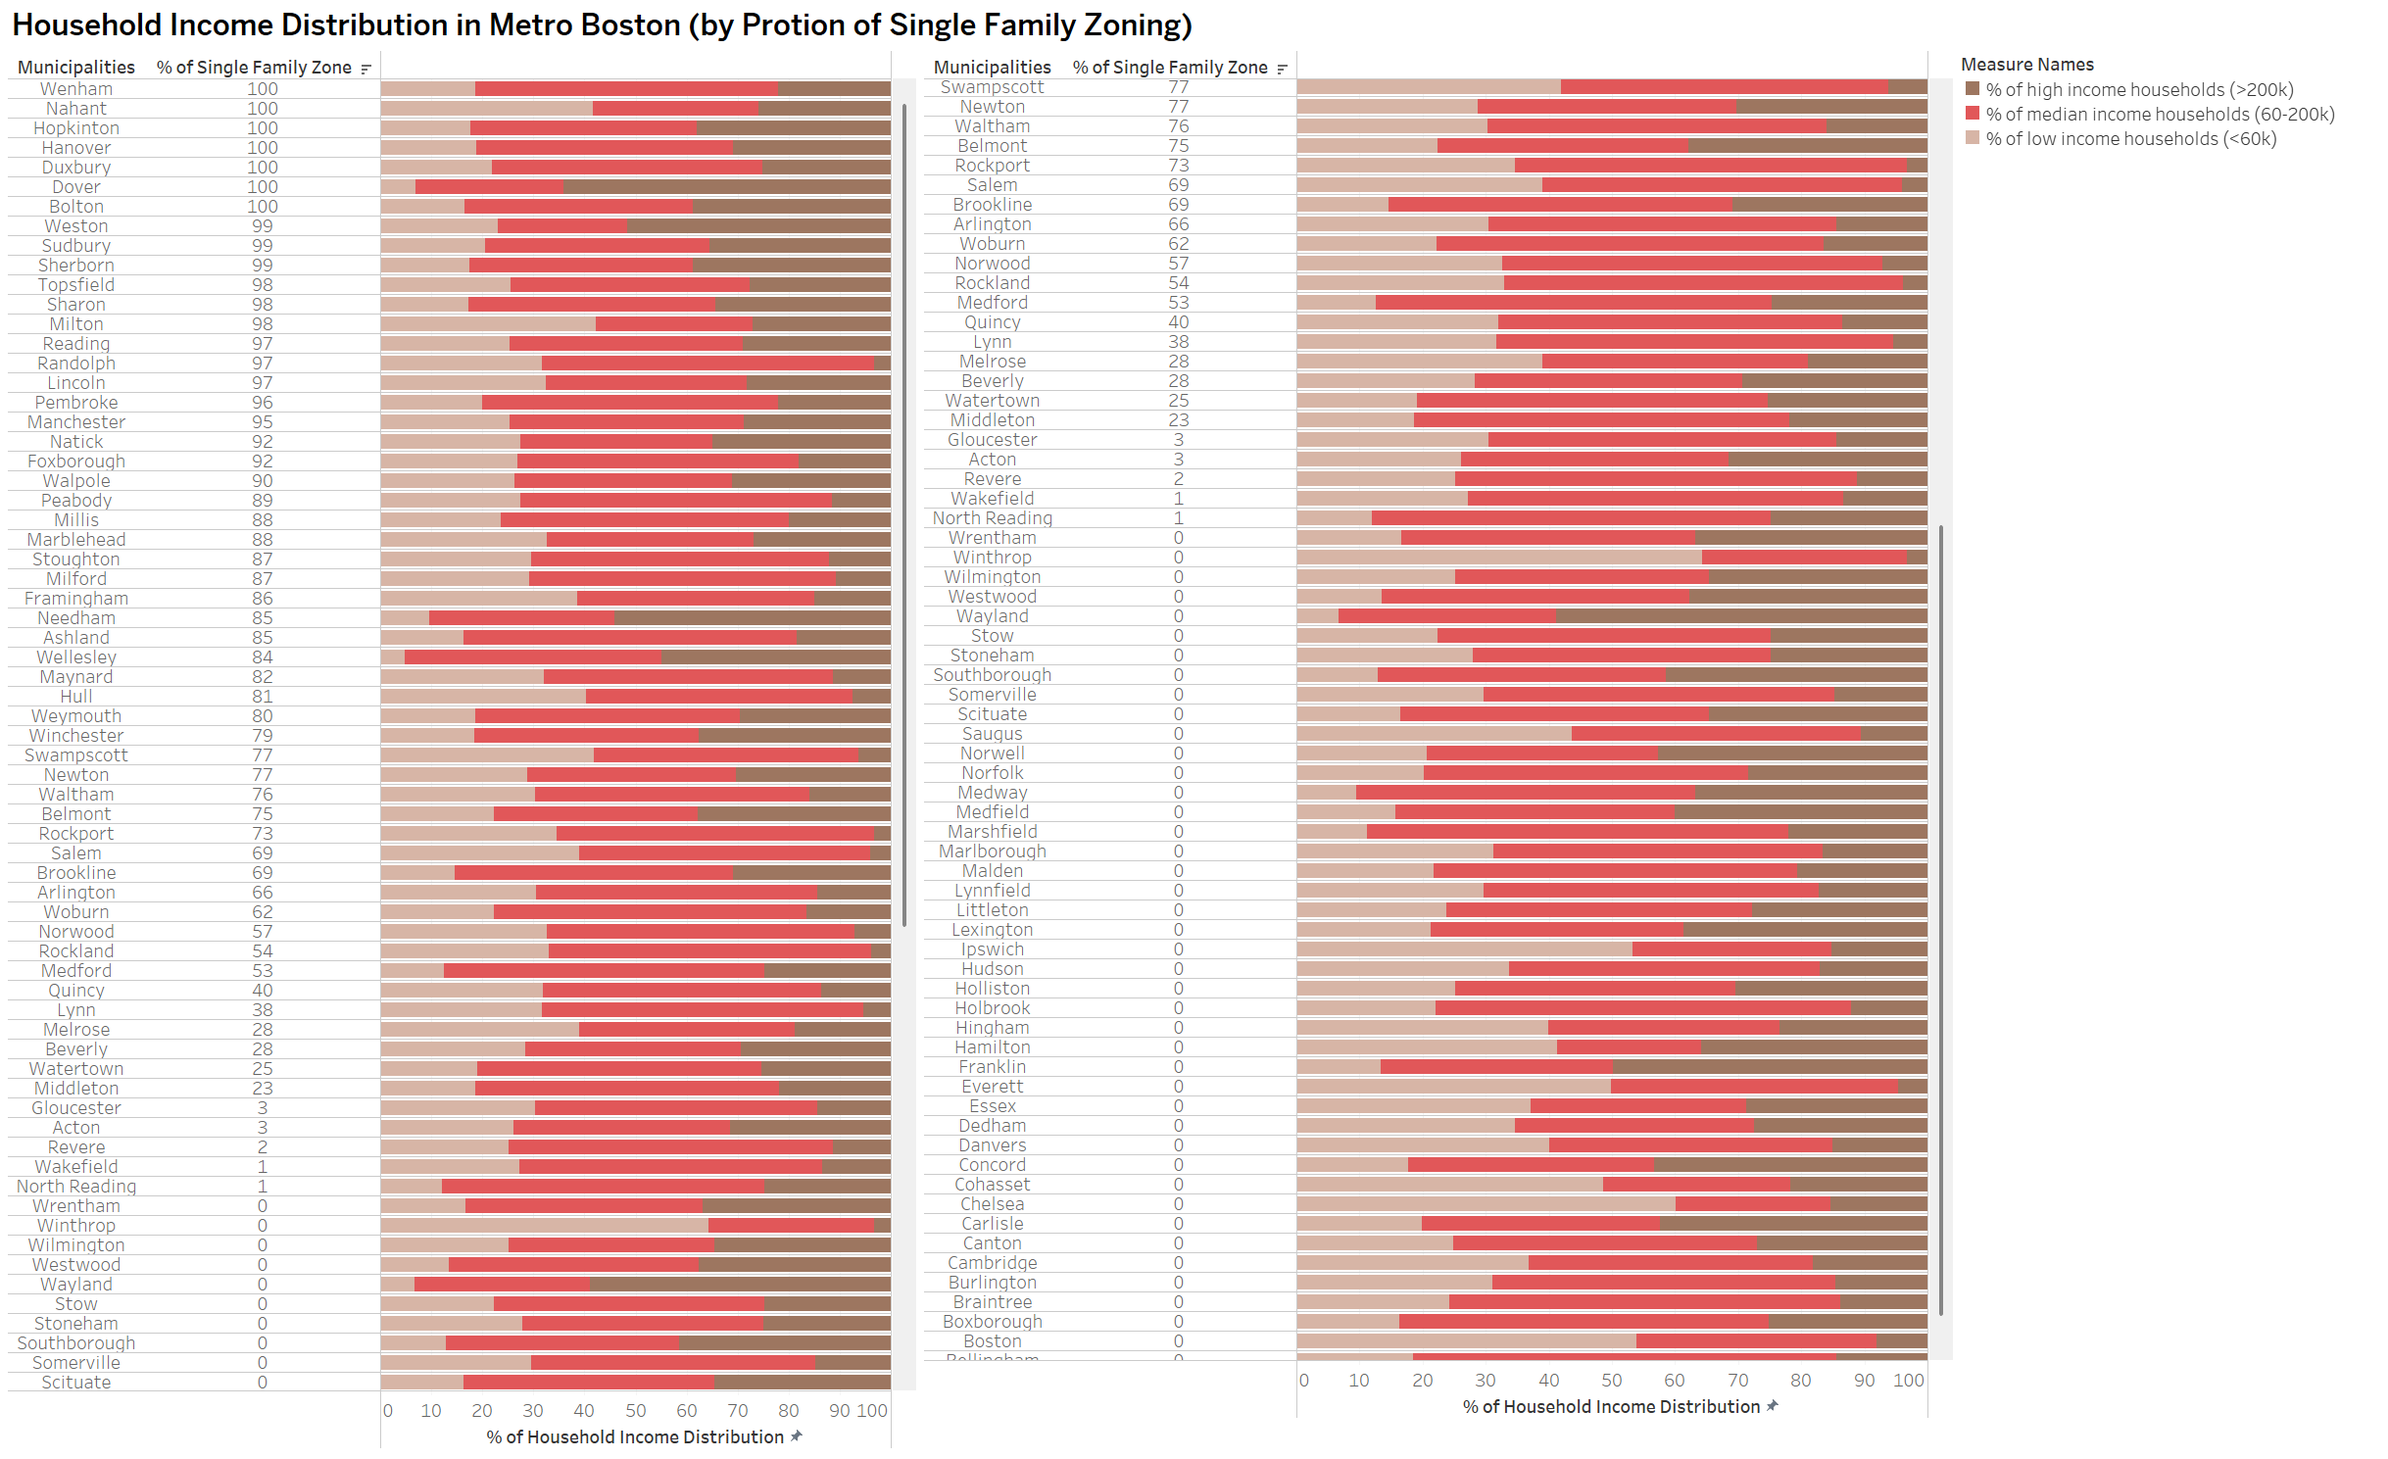
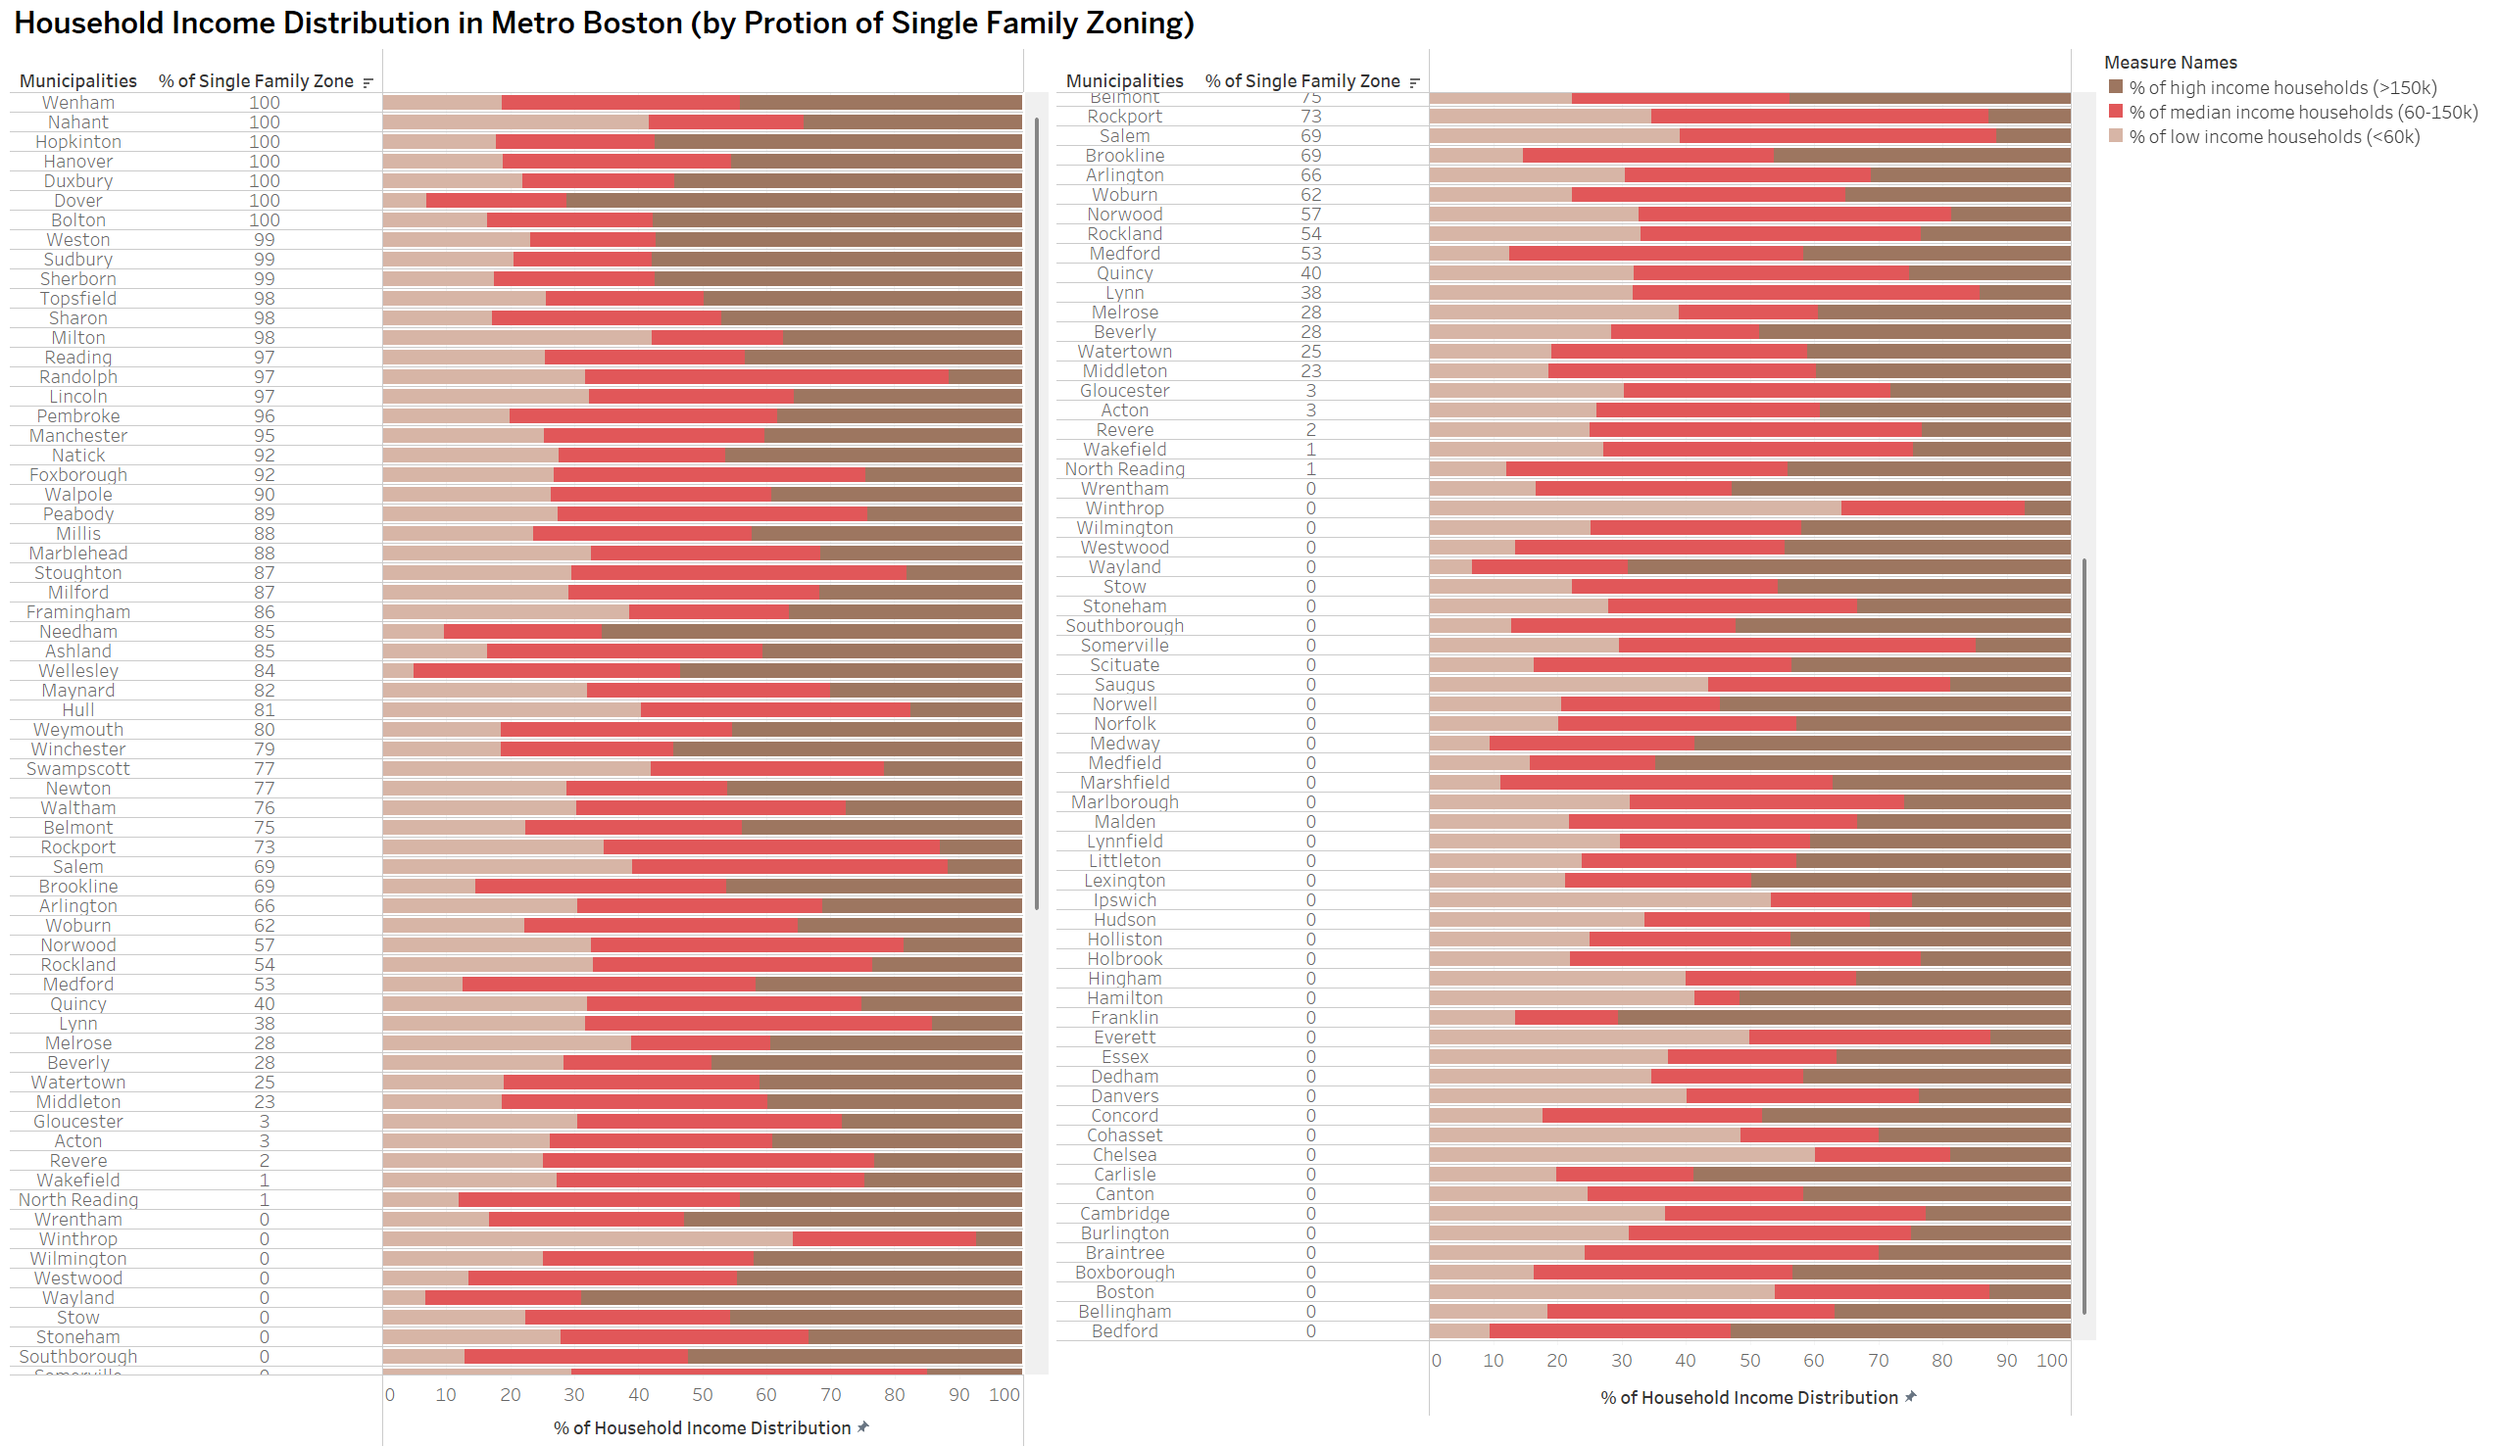
assignment2

diff --git a/assignments/assignment2.html b/assignments/assignment2.html
@@ -31,51 +31,95 @@
 	<main>
 		<section>
 			<h2>Subtheme: Zoning and Housing Supply</h2>
+			<h3>Data Overview </h3>
+
+			<p>
+				The primary dataset, <b>"Single-Family Zoning vs. Other Housing Zoning with Census Info in Metro Boston Municipalities,"</b> is derived from MACP’s Zoning Atlas. It includes spatial and tabular data for 101 Metro Boston municipalities, indicating whether areas are zoned for single-family housing or other housing types and whether they fall under the MBTA Communities list.
+		    <br>
+		
+				Additionally, the dataset incorporates demographic data from the 2010 Census (population, racial composition) and 2014-2018 Census estimates (income levels). 
+				<br>
+				Another key dataset, <b>"Mapping Inequality: Redlining Data"</b>, sourced from <a href="https://catalog.archives.gov/id/720357">1935-1940 City Survey Files</a>, provides historical context on redlining policies.
+				
+			</p>
+		</section>
+
+		<section>
+			<h3>Data Limitation</h3>
+			<ol>
+				<li> The zoning dataset and MBTA Communities list lack timestamps, making it unclear whether the data is up to date. </li>
+				<li> Demographic data is over five years old and may not reflect current trends. </li>
+				<li> Some municipalities appear twice in the dataset due to their mixed zoning status. However, demographic discrepancies exist between these duplicates, despite census data being from the same period. For consistency, I calculated the average values for analysis. </li>
+				<li> Several municipalities lack complete demographic data, which could mislead interpretations.
+					For example, some municipalities, such as Sharon, Everett, Burlington, Sudbury, Belmont, Chelsea, Waltham, Framingham, Lynn, and Somerville, are recorded as having zero population, which is clearly incorrect.
+				</li>
+				<li>
+					These errors likely stem from census block groups not aligning perfectly with municipal boundaries, affecting data accuracy. Future analysis should incorporate updated census data to ensure more reliable findings.
+				</li>
+	
+			</ol>
+
+
+		</section>
+
+		<section>
+			
 
 			<h3>Overall Analysis Questions</h3>
 			<ol>
-				<li>QUESTION_1</li>
-				<li>QUESTION_2</li>
-				<li>QUESTION_3</li>
-				<li>...</li>
+				<li> What are the housing zoning classifications across the municipalities in Metro Boston?  </li>
+				<li> How do zoning classifications differ among communities that are subject to the MBTA Community Act?  </li>
+				<li> Do municipal demographics shape housing zoning, or does zoning influence demographics?  </li>
+				<li> How has historical housing policy, such as redlining, affected today's housing zoning classifications?</li>
 			</ol>
 		</section>
 
 		<section>
-			<h2>Discoveries & Insights</h2>
+			<h3>Discoveries & Insights</h3>
+			<p>
+				This analysis initially focused on understanding the current distribution of housing zoning classifications across Metro Boston municipalities. It then explored potential interplay factors that influence zoning patterns, such as demographic composition, household income, housing type preferences, and historical zoning policies.
+			</p>
 
 			<figure>
 				<img src="../images/Assignment2/Figure1.png" alt="Figure1" />
 				<figcaption>
-				ENTER IMAGE CAPTION HERE.
-				</figcaption>
+				provides a broad overview of zoning classifications across Metro Boston. Red areas indicate municipalities where all residentially zoned land is designated for single-family housing. Light green areas represent municipalities with no single-family zoning, while dark green areas highlight municipalities that contain a mix of zoning types, including single-family zoning. <br>
+				The map reveals that six municipalities are exclusively zoned for single-family housing. However, this representation does not reflect the proportion of single-family zoning within mixed-zoned municipalities, where single-family zoning may constitute anywhere from 2% to 99% of total residential zoning. Therefore, I created Map 2 to provide better insight into the proportion of single-family zoning distributing across the Metro Boston area.
+			</figcaption>
 			</figure>
 
 			<figure>
 				<img src="../images/Assignment2/Figure2.png" alt="Figure2" />
 				<figcaption>
-				ENTER IMAGE CAPTION HERE.
+					offers a clearer understanding of the distribution of single-family zoning by quantifying the extent of such zoning within each municipality. 
+					The map suggests that more than one-third of Metro Boston municipalities have over 80% of their land designated for single-family housing. Furthermore, more than half of the municipalities have at least 60% of their residential areas zoned exclusively for single-family homes. 
 				</figcaption>
 			</figure>
 
+			<p>	
+				I was triggered to see how the MBTA Community Act impacts housing zoning status, particularly in municipalities that still maintain a high percentage (over 80%) of single-family zoning.
+			</p>
 			<figure>
 				<img src="../images/Assignment2/Figure3.png" alt="Figure3" />
 				<figcaption>
-				ENTER IMAGE CAPTION HERE.
+					highlights thirty municipalities with more than 80% single-family zoning that are subject to the MBTA’s zoning requirements. <b>These municipalities present significant opportunities for zoning reforms aimed at increasing housing density. Future analyses should investigate potential non-compliance with the MBTA Community Act by reviewing current zoning codes and identifying which municipalities have made efforts to align with state mandates.</b>
 				</figcaption>
 			</figure>
+			<p>
+				The following investigates moved on to whether zoning classifications correlate with demographic characteristics, including population size, racial composition, and household types. The goal is to determine whether zoning policies are shaped by demographic preferences or if zoning itself influences demographic composition.
+			</p>
 
 			<figure>
 				<img src="../images/Assignment2/Figure4.png" alt="Figure4" />
 				<figcaption>
-				ENTER IMAGE CAPTION HERE.
+				 examines total population size across Metro Boston. Initial plots (not included) included municipalities recorded with zero population, suggest that certain demographic records are unreliable <b>(Refer to Data limitation Section)</b>. Revised plot (above) excluding municipalities with populations below fifty, suggests that municipalities with lower proportions of single-family zoning tend to have higher population densities. This trend conforms with my expectation, as areas with less restrictive zoning generally allow for denser residential development.
 				</figcaption>
 			</figure>
 
 			<figure>
 				<img src="../images/Assignment2/Figure5.png" alt="Figure5" />
 				<figcaption>
-				ENTER IMAGE CAPTION HERE.
+					evaluates racial distribution across Metro Boston and its relationship to single-family zoning. The entire metro Boston region remains predominantly White, but no strong correlation is observed between race distribution and single-family zoning proportions. While zoning policies may contribute to segregation in some regions, this dataset does not provide conclusive evidence of a direct link between single-family zoning and racial composition.
 				</figcaption>
 			</figure>
 
@@ -83,43 +127,57 @@
 				<img src="../images/Assignment2/Figure6a.png" alt="Figure6a" />
 				<img src="../images/Assignment2/Figure6b.png" alt="Figure6b" />
 				<figcaption>
-				ENTER IMAGE CAPTION HERE.
+					explores the age composition of municipalities with different zoning classifications. I examined whether the proportion of younger or older residents correlated with zoning density and also conducted a spot check of White and Hispanic population proportions across Boston municipalities. <br>
+					The results did not suggest any significant relationship between age distribution and zoning classification. The chart is structured in descending order, from municipalities with 100% single-family zoning to those with none, with the color of the bars representing zoning classifications.
 				</figcaption>
 			</figure>
 
 			<figure>
 				<img src="../images/Assignment2/Figure7.png" alt="Figure7" />
 				<figcaption>
-				ENTER IMAGE CAPTION HERE.
+					presents the household income distribution across Metro Boston municipalities. Based on <a href="https://www.neilsberg.com/insights/boston-ma-median-household-income/">Neilsberg Research </a>, Boston’s median household income between 2014 and 2018 ranged from $60K to $90K. To better analyze income variation, I categorized households into three income brackets: low-income (<$60K), middle-income ($60K-$150K), and high-income (>$150K). Once again, there was no distinct correlation between zoning classifications and household income distribution. <br>
+					The data suggests that most Metro Boston municipalities are relatively affluent, with a large portion of households falling into the high-income bracket. However, a few municipalities—Chelsea, Everett, Ipswich, and Winthrop—stand out, as more than half of their households qualify as low-income.
 				</figcaption>
 			</figure>
 
 			<figure>
 				<img src="../images/Assignment2/Figure8.png" alt="Figure8" />
 				<figcaption>
-				ENTER IMAGE CAPTION HERE.
+				examines the distribution of different household types across Metro Boston and its relationship to zoning classifications. Specifically, I investigated whether municipalities with a higher proportion of non-family households tend to have higher-density zoning. The results did not support this hypothesis, as there was no clear correlation between the proportion of non-family households and zoning classifications. Some municipalities with a high proportion of non-family households still maintained predominantly single-family zoning, while others with a mix of family and non-family households had more flexible zoning policies.
 				</figcaption>
 			</figure>
+			<p>	
+				Since household type alone did not correlate to zoning classifications, I considered whether transportation access might play a role. 
+			</p>
 
 			<figure>
 				<img src="../images/Assignment2/Figure9.png" alt="Figure9" />
 				<figcaption>
-				ENTER IMAGE CAPTION HERE.
+				explores how household composition correlates with proximity to Metro Boston’s transit network. The results vaguely suggest that municipalities closer to public transit lines tend to have a higher proportion of non-family households. While this may indicate a possible relationship between transit access and housing preferences, the pattern is not strong enough to draw definitive conclusions.
 				</figcaption>
 			</figure>
+			<p>
+				At this stage, I had examined multiple aspects of the dataset "Single-Family Zoning vs. Other Housing Zoning with Census Info in Metro Boston Municipalities" but found no strong evidence that demographic characteristics or economic status directly influence housing zoning classifications or vice versa. In an effort to uncover additional factors shaping zoning policies, I expanded my search to "Mapping Inequality: Redlining Data".
+			</p>
 
 			<figure>
 				<img src="../images/Assignment2/Figure10.png" alt="Figure10" />
 				<figcaption>
-				ENTER IMAGE CAPTION HERE.
+				overlays modern housing zoning classifications with historical redlining maps. The results suggest that municipalities with higher-density zoning tend to align with historically low-graded redlined areas. This finding implies that past discriminatory housing policies may have had a lasting impact on current zoning regulations. 
 				</figcaption>
 			</figure>
 		</section>
 
 		<section>
-			<h2>Summary</h2>
+			<h3>Summary</h3>
 
-			<p>WRITE FINAL SUMMARY HERE.</p>
+			<p>
+				This study finds that more than half of Metro Boston municipalities have at least 60% of their land zoned for single-family housing, with a significant number exceeding 80%. Many of these municipalities are subject to the MBTA Community Act, highlighting potential areas for zoning reform. However, the analysis does not reveal strong correlations between zoning classifications and demographic characteristics such as race, income, or household composition. Additionally, historical redlining maps align closely with areas currently zoned for higher-density housing, suggesting that past housing policies may have influenced modern zoning patterns.
+			</p>
+			
+			<p>
+				Future analyses should explore the relationship between zoning policies and housing value, affordability. It is particularly interesting to investigate whether single-family zoning contributes to rising property values and housing costs, or if other factors, such as transportation networks, school qualities, or other amenities play a more significant role. Additionally, incorporating data on property sales and production rate could provide insights into whether single-family zoning protects home values or merely perpetuates housing scarcity. The intended research could inform discussions on zoning reform and the effectiveness of policies aimed at increasing housing availability in Metro Boston.
+			</p>
 		</section>
 	</main>
 
